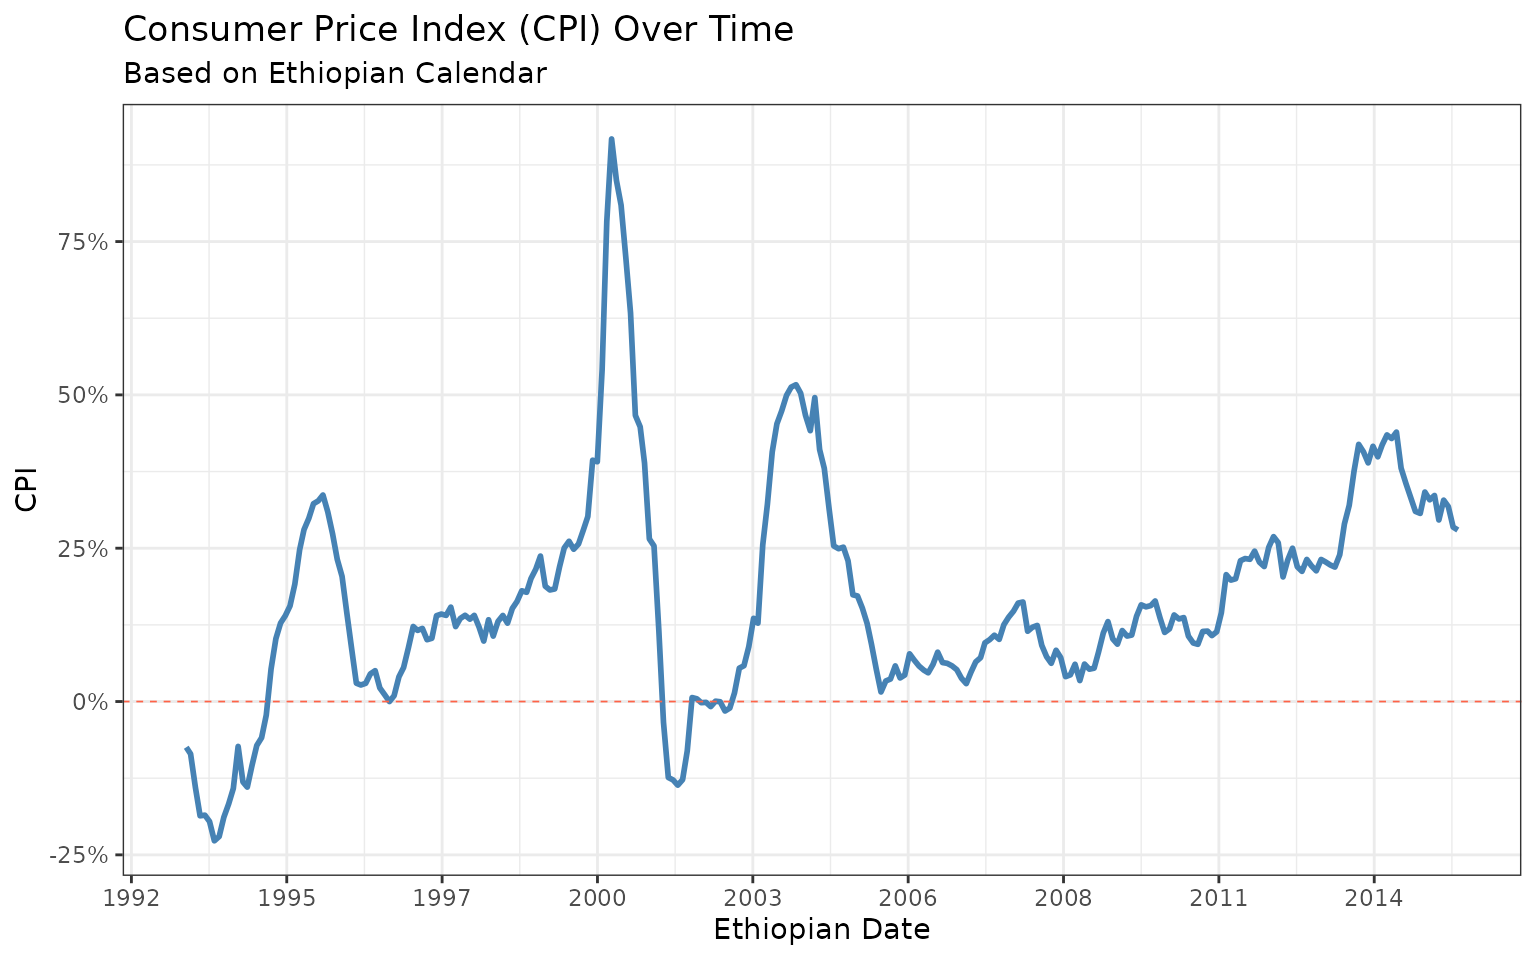
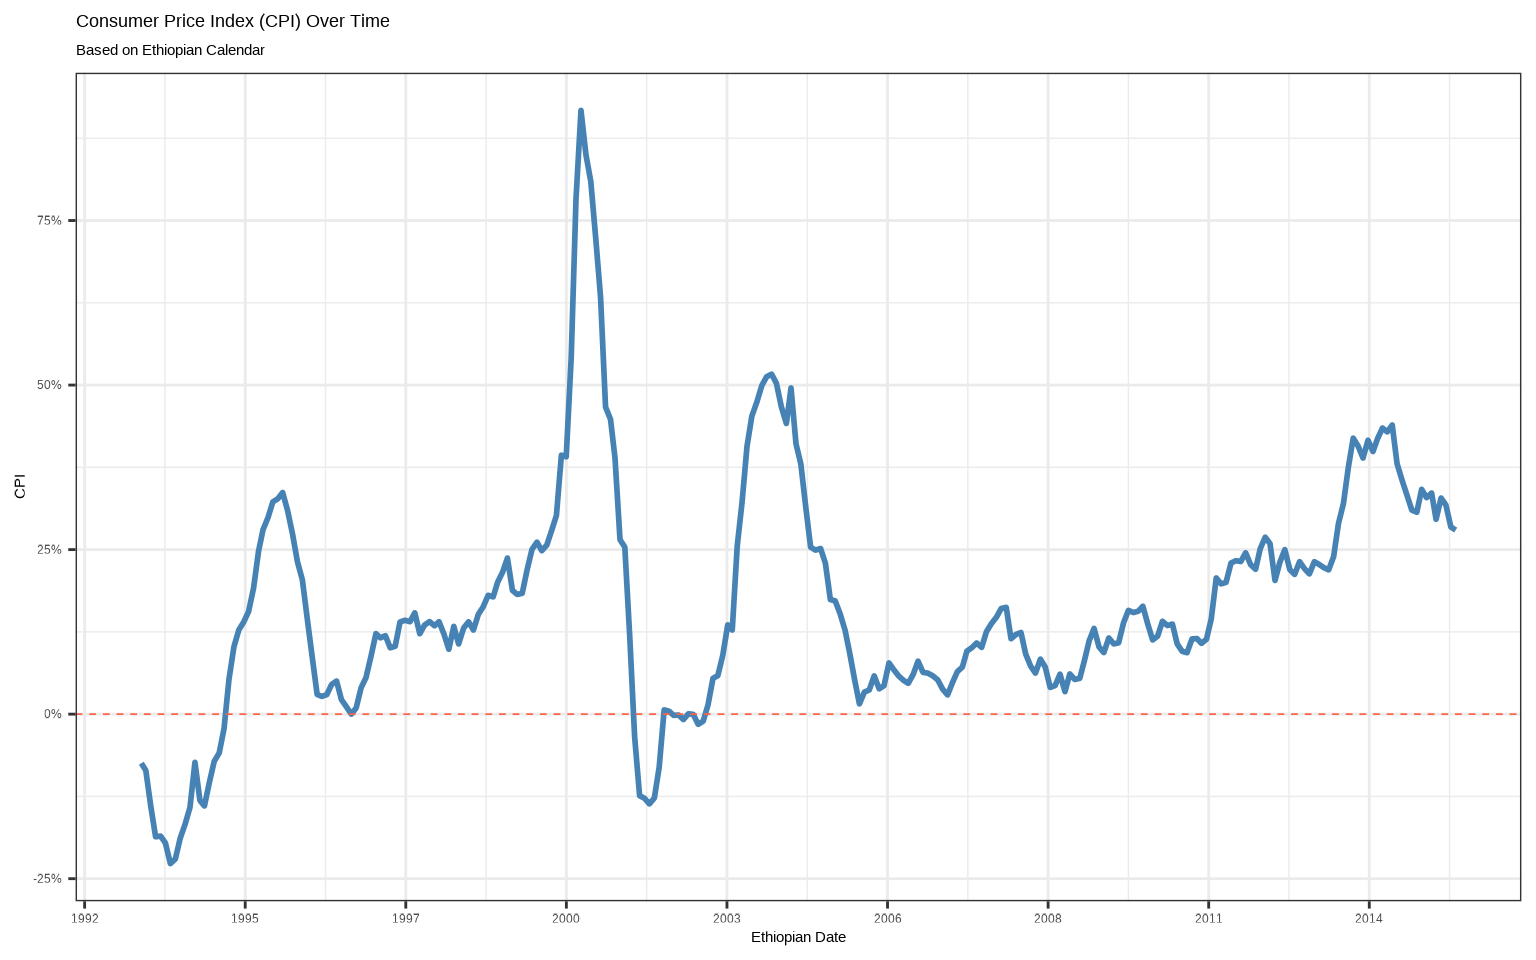
Deploying to gh-pages from @ GutUrago/ethiodate@df13fe1f52518265167de95a347d6a1392f078e8 🚀

diff --git a/articles/ggplot.html b/articles/ggplot.html
@@ -111,6 +111,12 @@ Consumer Price Index (CPI) data from 2001 onward.</p>
 <code class="sourceCode R"><span><span class="kw"><a href="https://rdrr.io/r/base/library.html" class="external-link">library</a></span><span class="op">(</span><span class="va"><a href="https://guturago.github.io/ethiodate/">ethiodate</a></span><span class="op">)</span></span>
 <span><span class="kw"><a href="https://rdrr.io/r/base/library.html" class="external-link">library</a></span><span class="op">(</span><span class="va"><a href="https://ggplot2.tidyverse.org" class="external-link">ggplot2</a></span><span class="op">)</span></span>
 <span><span class="kw"><a href="https://rdrr.io/r/base/library.html" class="external-link">library</a></span><span class="op">(</span><span class="va"><a href="https://dplyr.tidyverse.org" class="external-link">dplyr</a></span><span class="op">)</span></span>
+<span></span>
+<span><span class="kw"><a href="https://rdrr.io/r/base/library.html" class="external-link">library</a></span><span class="op">(</span><span class="va"><a href="https://github.com/yixuan/showtext" class="external-link">showtext</a></span><span class="op">)</span></span>
+<span><span class="kw"><a href="https://rdrr.io/r/base/library.html" class="external-link">library</a></span><span class="op">(</span><span class="va"><a href="https://github.com/yixuan/sysfonts" class="external-link">sysfonts</a></span><span class="op">)</span></span>
+<span><span class="fu"><a href="https://rdrr.io/pkg/sysfonts/man/font_add_google.html" class="external-link">font_add_google</a></span><span class="op">(</span><span class="st">"Noto Serif Ethiopic"</span><span class="op">)</span></span>
+<span><span class="fu"><a href="https://rdrr.io/pkg/showtext/man/showtext_auto.html" class="external-link">showtext_auto</a></span><span class="op">(</span><span class="op">)</span></span>
+<span></span>
 <span><span class="fu"><a href="https://rdrr.io/r/utils/head.html" class="external-link">head</a></span><span class="op">(</span><span class="va">cpieth</span><span class="op">)</span></span>
 <span><span class="co">#&gt; <span style="color: #949494;"># A tibble: 6 × 2</span></span></span>
 <span><span class="co">#&gt;   date          cpi</span></span>
@@ -189,10 +195,12 @@ years:</p>
 <span>  <span class="fu"><a href="https://ggplot2.tidyverse.org/reference/labs.html" class="external-link">labs</a></span><span class="op">(</span>title <span class="op">=</span> <span class="st">"CPI Seasonality by Ethiopian Year"</span>,</span>
 <span>       x <span class="op">=</span> <span class="st">"Month"</span>, y <span class="op">=</span> <span class="st">"CPI"</span>, color <span class="op">=</span> <span class="st">"Year"</span><span class="op">)</span> <span class="op">+</span></span>
 <span>  <span class="fu"><a href="https://ggplot2.tidyverse.org/reference/ggtheme.html" class="external-link">theme_bw</a></span><span class="op">(</span><span class="op">)</span> <span class="op">+</span> </span>
-<span>  <span class="fu"><a href="https://ggplot2.tidyverse.org/reference/theme.html" class="external-link">theme</a></span><span class="op">(</span>axis.text.x <span class="op">=</span> <span class="fu"><a href="https://ggplot2.tidyverse.org/reference/element.html" class="external-link">element_text</a></span><span class="op">(</span>angle <span class="op">=</span> <span class="fl">45</span>, vjust <span class="op">=</span> <span class="fl">0.9</span>, hjust <span class="op">=</span> <span class="fl">1</span>, face <span class="op">=</span> <span class="st">"bold"</span><span class="op">)</span><span class="op">)</span></span>
+<span>  <span class="fu"><a href="https://ggplot2.tidyverse.org/reference/theme.html" class="external-link">theme</a></span><span class="op">(</span>axis.text.x <span class="op">=</span> <span class="fu"><a href="https://ggplot2.tidyverse.org/reference/element.html" class="external-link">element_text</a></span><span class="op">(</span></span>
+<span>    family <span class="op">=</span> <span class="st">"Noto Serif Ethiopic"</span>,</span>
+<span>    angle <span class="op">=</span> <span class="fl">45</span>, vjust <span class="op">=</span> <span class="fl">0.9</span>, hjust <span class="op">=</span> <span class="fl">1</span>, colour <span class="op">=</span> <span class="st">"black"</span><span class="op">)</span><span class="op">)</span></span>
 <span></span>
 <span><span class="va">p1</span></span></code></pre></div>
-<p><img src="figures/p1.png" style="width:100.0%"></p>
+<p><img src="ggplot_files/figure-html/unnamed-chunk-6-1.png" width="768"></p>
 <p>What we see here is how CPI values shift month-to-month, year-by-year
 — with full support for the Ethiopian year. And by adding Amharic month
 labels with <code>eth_show(lang = "amh")</code>, we speak the language
@@ -213,10 +221,10 @@ patterns:</p>
 <span>  <span class="fu"><a href="https://ggplot2.tidyverse.org/reference/labs.html" class="external-link">labs</a></span><span class="op">(</span>title <span class="op">=</span> <span class="st">"Monthly CPI Heatmap"</span>,</span>
 <span>       x <span class="op">=</span> <span class="st">"Ethiopian Month"</span>, y <span class="op">=</span> <span class="st">"Ethiopian Year"</span>, fill <span class="op">=</span> <span class="st">"CPI"</span><span class="op">)</span> <span class="op">+</span></span>
 <span>  <span class="fu"><a href="https://ggplot2.tidyverse.org/reference/ggtheme.html" class="external-link">theme_bw</a></span><span class="op">(</span><span class="op">)</span> <span class="op">+</span> </span>
-<span>  <span class="fu"><a href="https://ggplot2.tidyverse.org/reference/theme.html" class="external-link">theme</a></span><span class="op">(</span>axis.text.x <span class="op">=</span> <span class="fu"><a href="https://ggplot2.tidyverse.org/reference/element.html" class="external-link">element_text</a></span><span class="op">(</span>face <span class="op">=</span> <span class="st">"bold"</span><span class="op">)</span><span class="op">)</span></span>
+<span>  <span class="fu"><a href="https://ggplot2.tidyverse.org/reference/theme.html" class="external-link">theme</a></span><span class="op">(</span>axis.text.x <span class="op">=</span> <span class="fu"><a href="https://ggplot2.tidyverse.org/reference/element.html" class="external-link">element_text</a></span><span class="op">(</span>family <span class="op">=</span> <span class="st">"Noto Serif Ethiopic"</span>, colour <span class="op">=</span> <span class="st">"black"</span><span class="op">)</span><span class="op">)</span></span>
 <span></span>
 <span><span class="va">p2</span></span></code></pre></div>
-<p><img src="figures/p2.png" style="width:100.0%"></p>
+<p><img src="ggplot_files/figure-html/unnamed-chunk-7-1.png" width="768"></p>
 <p>Heatmaps are excellent for revealing spikes, drops, and anomalies. In
 just one frame, you can identify patterns like seasonal inflation or
 economic shocks. The Ethiopian months are elegantly handled, and the
@@ -242,7 +250,7 @@ ethiodate — no need for hardcoded date logic.</p>
 <span>       x <span class="op">=</span> <span class="st">"Ethiopian Quarter"</span>, y <span class="op">=</span> <span class="st">"Average CPI"</span><span class="op">)</span> <span class="op">+</span></span>
 <span>  <span class="fu"><a href="https://ggplot2.tidyverse.org/reference/ggtheme.html" class="external-link">theme_bw</a></span><span class="op">(</span><span class="op">)</span> <span class="op">+</span></span>
 <span>  <span class="fu"><a href="https://ggplot2.tidyverse.org/reference/theme.html" class="external-link">theme</a></span><span class="op">(</span>axis.text.x <span class="op">=</span> <span class="fu"><a href="https://ggplot2.tidyverse.org/reference/element.html" class="external-link">element_text</a></span><span class="op">(</span>angle <span class="op">=</span> <span class="fl">45</span>, vjust <span class="op">=</span> <span class="fl">1</span>, hjust<span class="op">=</span><span class="fl">1</span><span class="op">)</span><span class="op">)</span></span></code></pre></div>
-<p><img src="ggplot_files/figure-html/unnamed-chunk-10-1.png" width="768"></p>
+<p><img src="ggplot_files/figure-html/unnamed-chunk-8-1.png" width="768"></p>
 </div>
 <div class="section level2">
 <h2 id="summary">Summary<a class="anchor" aria-label="anchor" href="#summary"></a>

diff --git a/reference/eth_show.html b/reference/eth_show.html
@@ -113,7 +113,7 @@
 <span class="r-in"><span><span class="fu">eth_today</span><span class="op">(</span><span class="op">)</span></span></span>
 <span class="r-out co"><span class="r-pr">#&gt;</span> [1] "2017-10-18"</span>
 <span class="r-in"><span><span class="fu">eth_now</span><span class="op">(</span><span class="op">)</span></span></span>
-<span class="r-out co"><span class="r-pr">#&gt;</span> [1] "2017-10-18 01:53:33 PM"</span>
+<span class="r-out co"><span class="r-pr">#&gt;</span> [1] "2017-10-18 05:34:20 PM"</span>
 <span class="r-in"><span></span></span>
 </code></pre></div>
     </div>
